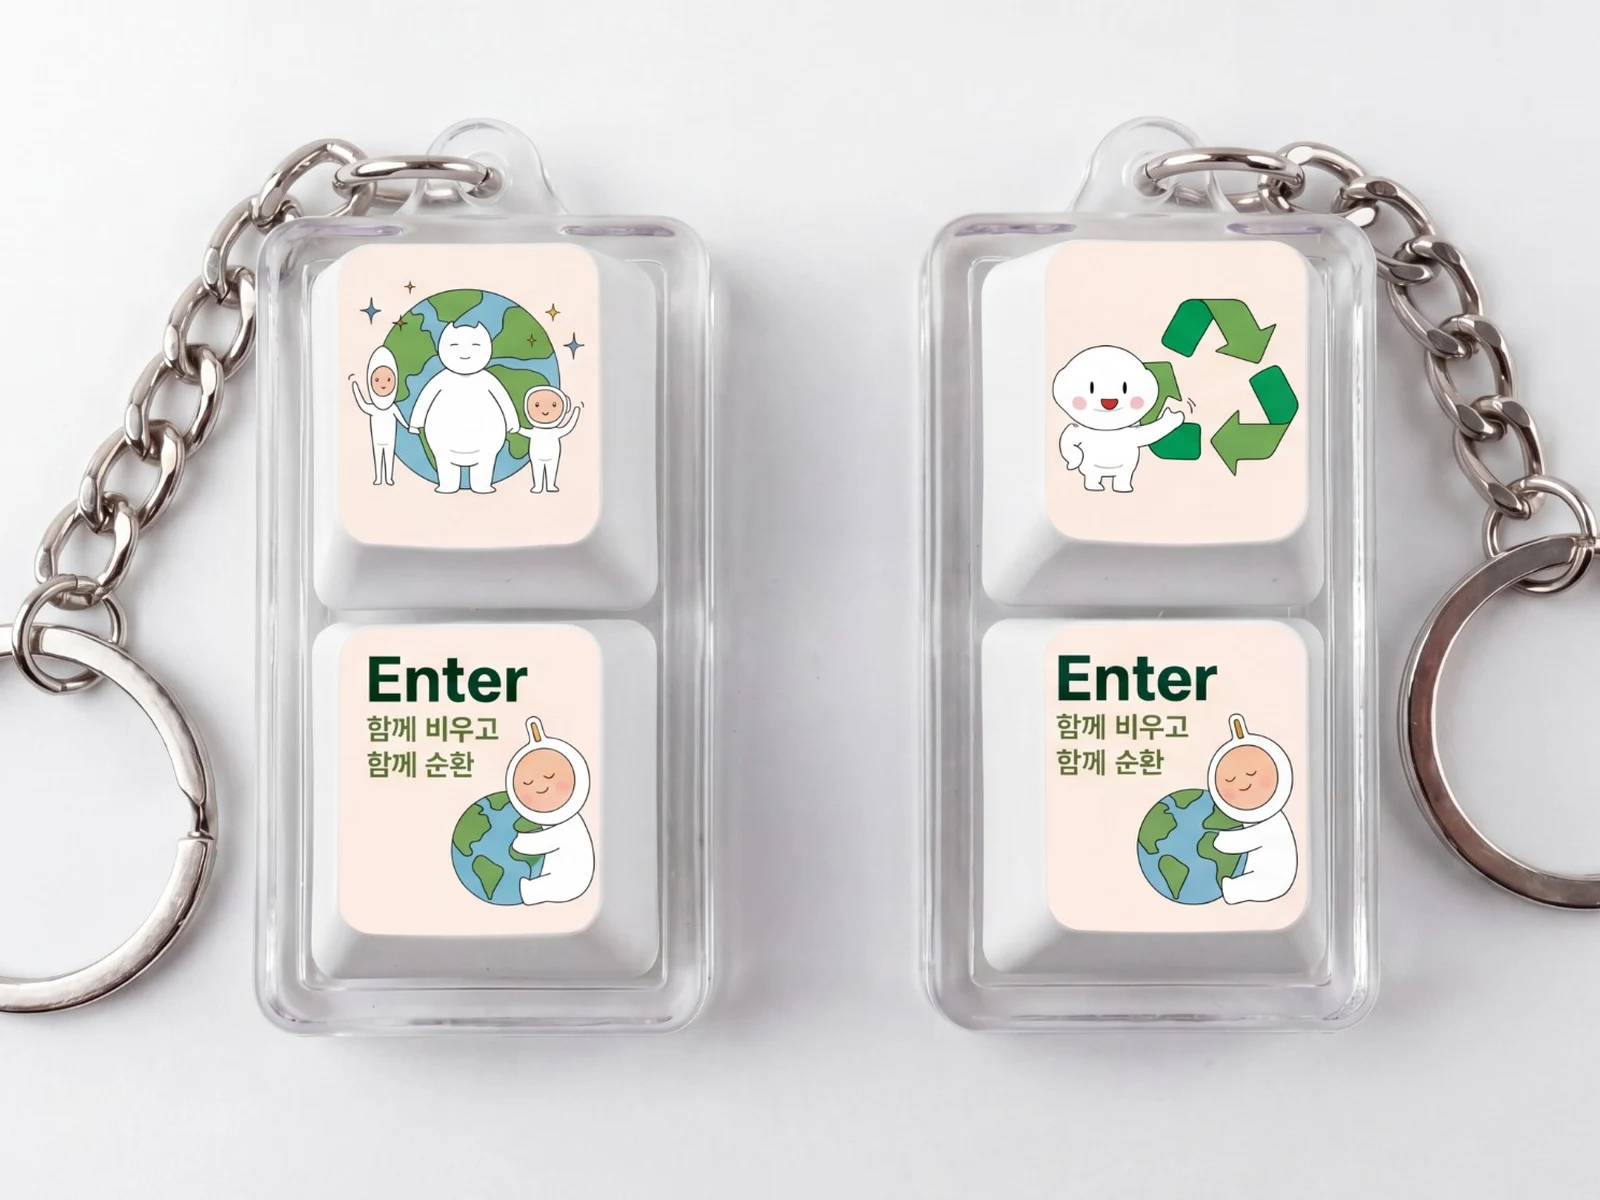
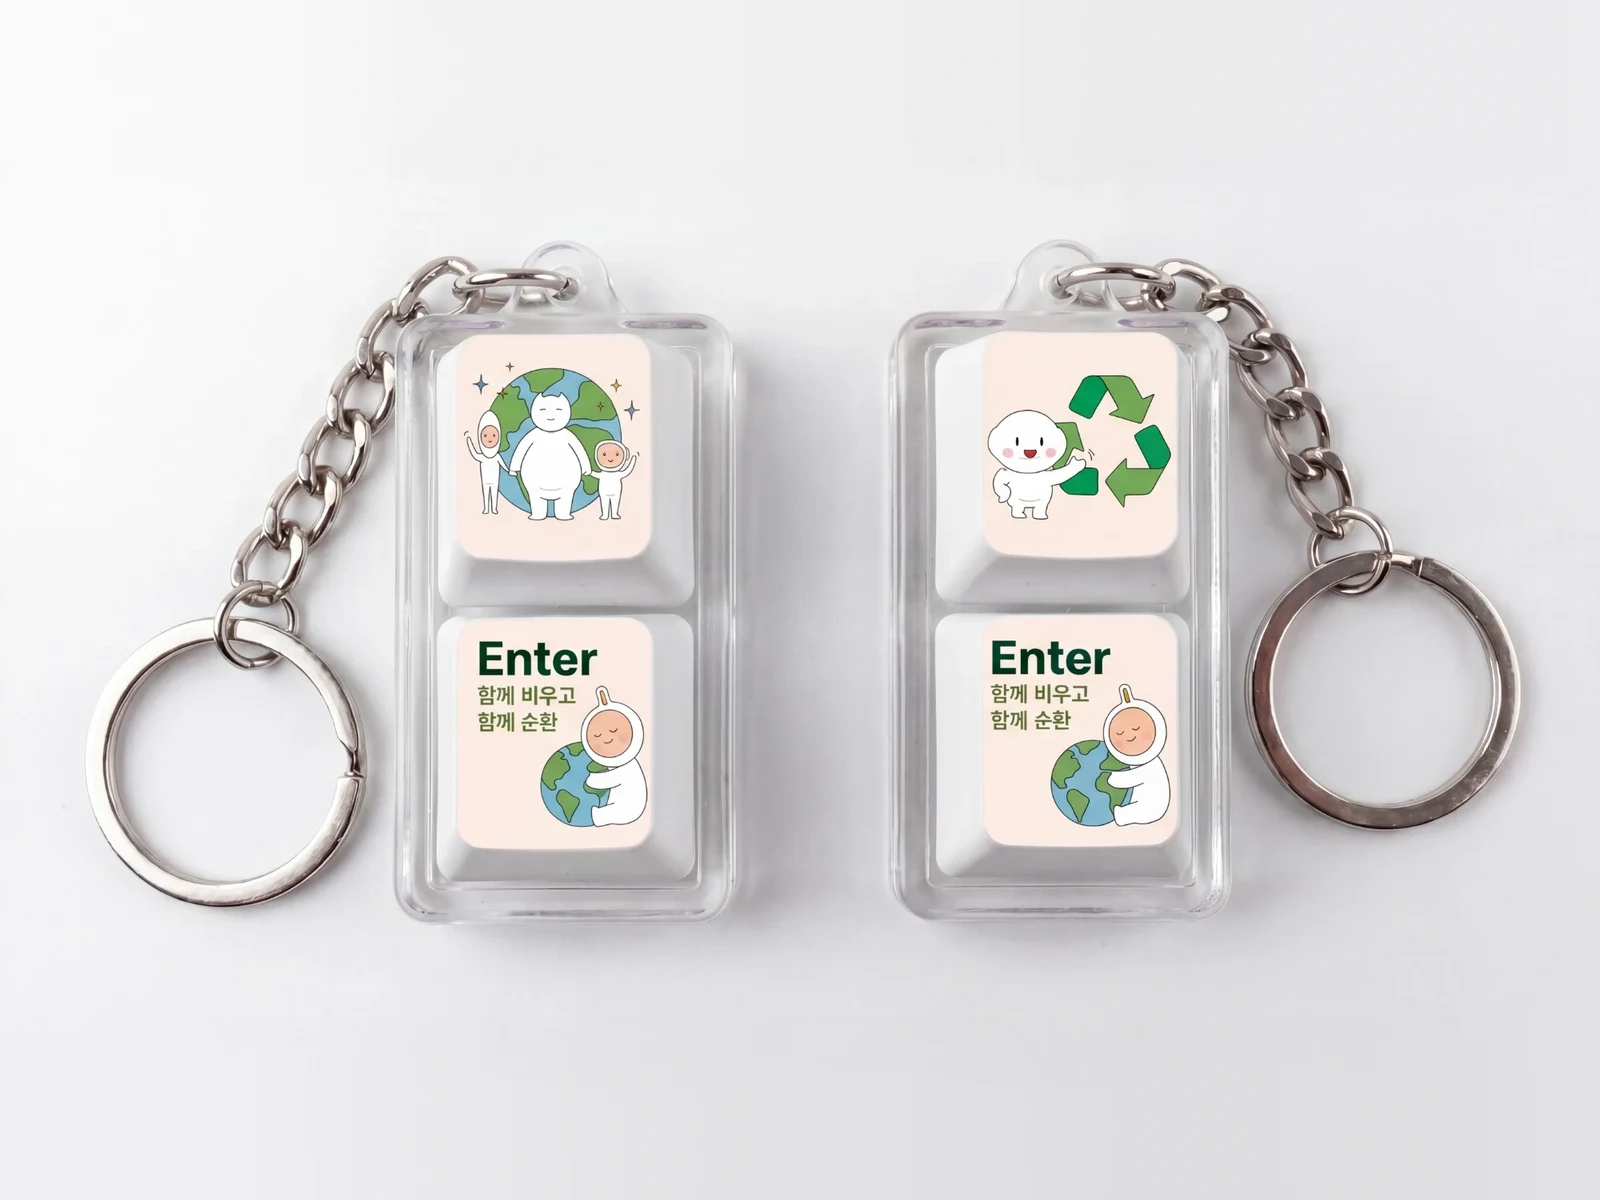
Uncropped keycap/LinkFit thumbs, front-view calendar, aligned stationery layout; archive filters, color hover, shorter cards
Claude-Session: https://claude.ai/code/session_01BFCG5mZW9hgWuvcjPHNUrC

diff --git a/index.html b/index.html
@@ -436,9 +436,10 @@ body.menu-open .cursor svg{color:#222}
 .archive .head{display:grid;gap:12px;margin-bottom:44px}
 .arc-grid{display:grid;grid-template-columns:repeat(2,minmax(0,1fr));gap:20px}
 .arc{position:relative;display:block;border-radius:6px;overflow:hidden;background:var(--white);isolation:isolate}
-.arc-img{aspect-ratio:16/11;overflow:hidden;background:var(--white)}
+.arc-img{aspect-ratio:16/8;overflow:hidden;background:var(--white)}
 .arc-img img{width:100%;height:100%;object-fit:cover;filter:grayscale(1);transition:transform 1.2s var(--ease)}
-.arc:hover .arc-img img,.arc:focus-visible .arc-img img{transform:scale(1.06)}
+.arc:hover .arc-img img,.arc:focus-visible .arc-img img{transform:scale(1.06);filter:grayscale(0)}
+.arc-img img{transition:transform 1.2s var(--ease),filter .8s var(--ease)!important}
 .arc-img.blank{display:grid;place-items:center;color:var(--line-2);font-size:clamp(80px,12vw,180px);font-weight:200;letter-spacing:-.06em}
 .arc-body{display:grid;grid-template-columns:minmax(0,1fr) auto;gap:4px 16px;align-items:end;padding:22px 22px 24px}
 .arc-no{grid-column:1/-1;font-size:11px;letter-spacing:.08em;text-transform:uppercase;color:var(--ink-2)}
@@ -448,10 +449,17 @@ body.menu-open .cursor svg{color:#222}
 .arc .arrow-btn{grid-column:2;grid-row:2/4}
 .arc-sub{grid-column:1/-1;display:flex;justify-content:space-between;align-items:baseline;gap:16px;margin-top:36px;padding-top:22px;border-top:1px solid var(--line)}
 .arc-sub h3{margin:0;font-size:clamp(20px,2vw,26px);font-weight:400;letter-spacing:-.03em}
-.arc-sub span{font-size:12.5px;color:var(--ink-2)}
+.arc-filt{display:flex;gap:6px;flex-wrap:wrap}
+.arc-filt button{height:34px;padding:0 14px;border-radius:999px;border:1px solid var(--line);background:var(--white);font-size:12.5px;color:var(--ink-2);cursor:pointer;transition:background .3s,color .3s,border-color .3s}
+.arc-filt button i{font-style:normal;margin-left:4px;opacity:.6;font-variant-numeric:tabular-nums}
+.arc-filt button:hover{border-color:var(--brand);color:var(--brand)}
+.arc-filt button.on{background:var(--brand);border-color:var(--brand);color:#fff}
+.arc-filt button:focus-visible{outline:2px solid var(--brand);outline-offset:2px}
+.arc.arc-sm.off{display:none}
 .arc-row{grid-column:1/-1;display:grid;grid-template-columns:repeat(4,minmax(0,1fr));gap:16px}
 .arc.arc-sm .arc-img{aspect-ratio:4/3}
 .arc.arc-sm.light .arc-img{position:relative;background:radial-gradient(70% 80% at 50% 40%,#FFFFFF,#EDEDED)}
+.arc.arc-sm.light:hover .arc-img img{filter:grayscale(0) drop-shadow(0 12px 16px rgba(0,0,0,.08))}
 .arc.arc-sm.light .arc-img img{position:absolute;left:10%;top:7%;width:80%;height:86%;object-fit:contain;filter:grayscale(1) drop-shadow(0 12px 16px rgba(0,0,0,.08))}
 .arc.arc-sm .arc-body{padding:16px 16px 18px;gap:4px 10px}
 .arc.arc-sm .arc-no{font-size:10.5px}
@@ -2310,21 +2318,21 @@ footer .c{padding-block:56px calc(40px + env(safe-area-inset-bottom,0px));displa
           <div class="arc-img"><img src="assets/intern/ottawa-wall.webp" alt="BoConcept Ottawa 사이드 테이블이 놓인 공간"></div>
           <div class="arc-body"><span class="arc-no">Archive 02</span><h3>Internship</h3><p>Karim Rashid · Stephen Burks · David Weeks 외 · 2014 — 2017</p><span class="arrow-btn" aria-hidden="true"><svg viewBox="0 0 24 24" fill="none" stroke="currentColor" stroke-width="1.8"><path d="M7 17 17 7M8 7h9v9"/></svg></span></div>
         </a>
-        <div class="arc-sub"><h3>Awards &amp; Product Concepts</h3><span>공모전 수상·출품작과 제품 콘셉트 · 4</span></div>
+        <div class="arc-sub"><h3>Awards &amp; Product Concepts</h3><div class="arc-filt" role="group" aria-label="분류 필터"><button type="button" class="on" data-f="all" aria-pressed="true">All <i>4</i></button><button type="button" data-f="award" aria-pressed="false">Award <i>1</i></button><button type="button" data-f="personal" aria-pressed="false">Personal <i>1</i></button><button type="button" data-f="concept" aria-pressed="false">Concept <i>2</i></button></div></div>
         <div class="arc-row">
-          <a class="arc arc-sm light rv" href="#windmate" data-cursor="1">
+          <a class="arc arc-sm light rv" href="#windmate" data-c="award" data-cursor="1">
             <div class="arc-img"><img src="assets/windmate/cover.webp" alt="Windmate 미니 선풍기" loading="lazy" decoding="async"></div>
             <div class="arc-body"><span class="arc-no">03 · Award</span><h3>Windmate</h3><p>신일 미니 선풍기 공모전 장려상 · 2018</p><span class="arrow-btn" aria-hidden="true"><svg viewBox="0 0 24 24" fill="none" stroke="currentColor" stroke-width="1.8"><path d="M7 17 17 7M8 7h9v9"/></svg></span></div>
           </a>
-          <a class="arc arc-sm  rv" href="#panastove" data-cursor="1">
+          <a class="arc arc-sm  rv" href="#panastove" data-c="personal" data-cursor="1">
             <div class="arc-img"><img src="assets/panastove/kitchen.webp?v=2" alt="PANASTOVE 충전식 프라이팬" loading="lazy" decoding="async" style="object-position:50% 6%"></div>
             <div class="arc-body"><span class="arc-no">04 · Personal Project</span><h3>Panastove</h3><p>충전식 프라이팬 · 신사업 공모전 출품</p><span class="arrow-btn" aria-hidden="true"><svg viewBox="0 0 24 24" fill="none" stroke="currentColor" stroke-width="1.8"><path d="M7 17 17 7M8 7h9v9"/></svg></span></div>
           </a>
-          <a class="arc arc-sm  rv" href="#magus" data-cursor="1">
+          <a class="arc arc-sm  rv" href="#magus" data-c="concept" data-cursor="1">
             <div class="arc-img"><img src="assets/magus/hero.webp?v=3" alt="MAGUS 플로어스탠딩 스피커" loading="lazy" decoding="async" style="object-position:50% 96%"></div>
             <div class="arc-body"><span class="arc-no">05 · Concept Product</span><h3>Magus</h3><p>플로어스탠딩 블루투스 스피커 · CMF</p><span class="arrow-btn" aria-hidden="true"><svg viewBox="0 0 24 24" fill="none" stroke="currentColor" stroke-width="1.8"><path d="M7 17 17 7M8 7h9v9"/></svg></span></div>
           </a>
-          <a class="arc arc-sm  rv" href="#jandi" data-cursor="1">
+          <a class="arc arc-sm  rv" href="#jandi" data-c="concept" data-cursor="1">
             <div class="arc-img"><img src="assets/jandi/hero.webp" alt="JANDI 도시형 공기청정기" loading="lazy" decoding="async" style="object-position:50% 50%"></div>
             <div class="arc-body"><span class="arc-no">06 · Concept Product</span><h3>Jandi</h3><p>태양광 자가발전 공기청정기 · Biomimicry</p><span class="arrow-btn" aria-hidden="true"><svg viewBox="0 0 24 24" fill="none" stroke="currentColor" stroke-width="1.8"><path d="M7 17 17 7M8 7h9v9"/></svg></span></div>
           </a>
@@ -3685,10 +3693,10 @@ const WORKS=[
    ch:'그룹 5대 사업군(Set-top Box·Broadband CPE·Metaverse/AR Glass·Solution·Robot)을 상징하는 캐릭터 IP를 만드는 과제였습니다.',
    ap:'사업 특성을 반영한 네이밍과 성격·관계, 캐릭터별 스토리까지 세계관 전체를 설계했습니다. 동작 표현이 쉬운 인간형 3종과 무형 사업의 상징성을 살린 비인간형 2종으로 조형 체계를 나누고, 기업 컬러(오렌지) 기반 컬러 시스템, 감정·상태를 보여주는 시그널 장치, 신장·체중 등 캐릭터 스펙을 정의했습니다.',
    out:'캐릭터 5종 전체를 저작권 등록(2022.11)해 법적 보호가 가능한 그룹 IP로 전환했습니다. 가이드라인(11p), 아크릴 등신대·스티커·키캡·마우스패드 굿즈, 신규 입사자 웰컴 키트까지 만들었고, 2026년에는 솔루·로비 조형을 리뉴얼해 표현 범위를 넓혔습니다.'},
-  {title:'KAON Friends Keycaps', page:'keycap', img:'assets/keycap/thumb.webp?v=2', sub:'KAON GROUP', tag:'ESG Campaign Goods', period:'2026.03', cat:['brand'], scene:3,
+  {title:'KAON Friends Keycaps', page:'keycap', img:'assets/keycap/thumb.webp?v=3', sub:'KAON GROUP', tag:'ESG Campaign Goods', period:'2026.03', cat:['brand'], scene:3,
    kr:'ESG 환경 캠페인 가온프렌즈 키캡 키링 — Enter, 함께 비우고 함께 순환', role:'굿즈 기획 · 아트워크 디자인', client:'가온그룹 ESG팀', tools:'Illustrator',
    kpis:[], ch:'', ap:'', out:''},
-  {title:'KAON Friends 2027 Calendar', page:'calendar', img:'assets/calendar/thumb.webp?v=6', sub:'KAON GROUP', tag:'AI Artwork · Calendar', period:'2026', cat:['ai','brand','content'], scene:3,
+  {title:'KAON Friends 2027 Calendar', page:'calendar', img:'assets/calendar/thumb.webp?v=7', sub:'KAON GROUP', tag:'AI Artwork · Calendar', period:'2026', cat:['ai','brand','content'], scene:3,
    kr:'가온프렌즈를 주인공으로 생성형 AI로 그린 2027 탁상 캘린더', role:'기획·AI 아트워크·편집디자인', client:'가온그룹', tools:'Generative AI, Photoshop, Illustrator',
    kpis:[['500부','제작·배포'],['3주','제작 기간 · 2024 대비 절반 이상 단축'],['18점','월별 14 · 상태 카드 4']], ch:'', ap:'', out:''},
   {title:'KAON Global Exhibitions', page:'ibc', img:'assets/ibc/thumb.webp?v=2', sub:'KAON GROUP', tag:'Exhibition · AI Wall Graphics', period:'2021 — 현재', cat:['brand','ai'], scene:4,
@@ -3697,7 +3705,7 @@ const WORKS=[
   {title:'KAON GROUP CI', page:'kaonci', img:'assets/kaonci/thumb.webp?v=5', sub:'KAON GROUP', tag:'CI · Guideline', period:'2025', cat:['brand'], scene:4,
    kr:'그룹사·계열사 2곳(BROADBAND·ROBOTICS) 통합 CI와 가이드라인', role:'Brand Designer', client:'가온그룹', tools:'Illustrator, Photoshop',
    kpis:[], ch:'', ap:'', out:''},
-  {title:'KAON Stationery', page:'stationery', img:'assets/stationery/thumb.webp?v=4', sub:'KAON GROUP', tag:'Stationery', period:'2025', cat:['brand'], scene:4,
+  {title:'KAON Stationery', page:'stationery', img:'assets/stationery/thumb.webp?v=5', sub:'KAON GROUP', tag:'Stationery', period:'2025', cat:['brand'], scene:4,
    kr:'CI 심볼을 확장한 그룹·계열사 공식 레터헤드와 대·소봉투 체계', role:'Brand Designer', client:'가온그룹', tools:'Illustrator, Photoshop',
    kpis:[], ch:'', ap:'', out:''},
   {title:'K-FutureTech Branding', page:'kfuturetech', img:'assets/kft/thumb-grid.webp?v=2', sub:'KAON GROUP', tag:'CI · BI', period:'2022', cat:['brand'], scene:4,
@@ -3706,7 +3714,7 @@ const WORKS=[
   {title:'dk. Personal Identity', page:'dklogo', img:'assets/dklogo/thumb.webp?v=4', sub:'Personal', tag:'Logo · Monogram', period:'2026', cat:['brand'], scene:5,
    kr:'이니셜 d와 k를 하나의 기둥으로 엮은 퍼스널 모노그램과 모션', role:'로고 디자인 · 모션', client:'Personal', tools:'Illustrator, Figma, AI',
    kpis:[], ch:'', ap:'', out:''},
-  {title:'LinkFit', page:'linkfit', img:'assets/linkfit/web/s-hero.webp', sub:'Freelance', tag:'Website · App', period:'2026.01 — 현재', cat:['product','brand','content'], scene:5,
+  {title:'LinkFit', page:'linkfit', img:'assets/linkfit/thumb.webp', sub:'Freelance', tag:'Website · App', period:'2026.01 — 현재', cat:['product','brand','content'], scene:5,
    kr:'헬스장 이용권을 시간 단위로 예약·결제하는 B2C 피트니스 앱의 서비스 기획과 디자인', role:'Product Designer & Service Planner', client:'LinkFit', tools:'Figma, GA4, Search Console, Suno',
    kpis:[['Flow','서비스 플로우·화면기획서 작성'],['Admin','권한 분리 파트너 대시보드 설계'],['2명','개발자와 핸드오프·QA 협업']],
    ch:'헬스장 이용권을 시간 단위로 예약·결제하는 B2C 앱을 서비스 구조부터 기획하고 디자인하는 프로젝트입니다.',
@@ -4294,6 +4302,12 @@ addEventListener('keydown',e=>{ if(lb.hidden) return; if(e.key==='Escape'){e.sto
   el.addEventListener('pointerleave',e=>{ if(e.pointerType==='mouse'){ hover=false; run(); } });
   if('IntersectionObserver' in window){ new IntersectionObserver(es=>{ if(es[0].isIntersecting) run(); else { clearTimeout(t); } }).observe(el); } else run();
 })();
+
+/* ---------- Archive filter ---------- */
+(()=>{ const f=document.querySelector('.arc-filt'); if(!f) return; const bs=[...f.querySelectorAll('button')], cs=[...document.querySelectorAll('.arc-sm[data-c]')];
+  f.addEventListener('click',e=>{ const b=e.target.closest('button'); if(!b) return; const k=b.dataset.f;
+    bs.forEach(x=>{ const on=x===b; x.classList.toggle('on',on); x.setAttribute('aria-pressed',String(on)); });
+    cs.forEach(c=>c.classList.toggle('off',!(k==='all'||c.dataset.c===k))); window.ScrollTrigger&&ScrollTrigger.refresh(); }); })();
 
 /* ---------- dk. logo project ---------- */
 (()=>{ const pg=document.getElementById('pg-dklogo'); if(!pg) return;
